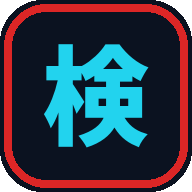
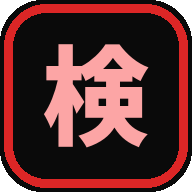
配色を黒＋赤に変更（検索くんとの取り違え防止）

diff --git a/index.html b/index.html
@@ -9,15 +9,17 @@
 <link rel="apple-touch-icon" href="./icon-180.png">
 <!-- ホーム画面から開いたときに、ブラウザの検索窓を出さないための設定 -->
 <link rel="manifest" href="./manifest.webmanifest">
-<meta name="theme-color" content="#0b1220">
+<meta name="theme-color" content="#0a0a0a">
 <meta name="mobile-web-app-capable" content="yes">
 <meta name="apple-mobile-web-app-capable" content="yes">
 <meta name="apple-mobile-web-app-status-bar-style" content="black-translucent">
 <meta name="apple-mobile-web-app-title" content="検">
 <style>
 :root{
-  --bg:#0b1220; --card:#131c2e; --card2:#1a2437; --line:#2a3a52;
-  --text:#e6eefc; --dim:#8fa3c0; --cyan:#22d3ee;
+  /* 管理用ページなので、検索くん（濃紺＋水色）とはっきり違う色にする。
+     開いた瞬間に「いま何を触っているか」が分かるほうが、誤送信を防げる。 */
+  --bg:#0a0a0a; --card:#161616; --card2:#1f1f1f; --line:#3a3a3a;
+  --text:#f2f2f2; --dim:#9a9a9a; --cyan:#f87171;   /* 差し色は赤系 */
 }
 *{box-sizing:border-box}
 body{
@@ -43,7 +45,7 @@ textarea{min-height:120px;resize:vertical}
   background:var(--card2);border:2px solid var(--line);border-radius:10px;
   font-weight:700;cursor:pointer;user-select:none;
 }
-.app.on{border-color:var(--cyan);background:rgba(34,211,238,.12)}
+.app.on{border-color:#f87171;background:rgba(248,113,113,.14)}
 .app .mk{font-size:18px;width:20px;text-align:center}
 .allbtn{
   width:100%;padding:10px;margin-top:10px;background:var(--card2);
@@ -53,20 +55,20 @@ button.main{
   width:100%;padding:18px;font-size:17px;font-weight:800;color:#fff;
   border:none;border-radius:12px;margin-bottom:10px;cursor:pointer;
 }
-.check{background:linear-gradient(90deg,#0ea5e9,#8b5cf6)}
+.check{background:#3f3f46}
 .send{background:#dc2626}
 /* カギを消す操作は、めったに使わないうえ押すと送れなくなる。
    誤って触らないよう、小さな文字リンクにして下のほうへ置く。 */
 .danger-link{
   display:block;width:100%;margin-top:22px;padding:8px;
-  background:none;border:none;color:#5b6b83;
+  background:none;border:none;color:#6b6b6b;
   font-size:11px;text-decoration:underline;cursor:pointer;
 }
 button:disabled{opacity:.45}
 #log{
   white-space:pre-wrap;font-size:13px;line-height:1.8;
-  color:#cfe3ff;                      /* 灰色だと読みにくいので明るくする */
-  background:#0a0f1a;border:1px solid var(--line);border-radius:10px;
+  color:#e8e8e8;                      /* 灰色だと読みにくいので明るくする */
+  background:#000;border:1px solid var(--line);border-radius:10px;
   padding:14px;min-height:80px;
 }
 .warn{
@@ -78,17 +80,17 @@ button:disabled{opacity:.45}
 .quick{display:flex;flex-wrap:wrap;gap:8px;margin-top:8px}
 .quick button{
   padding:9px 13px;font-size:13px;font-weight:700;
-  color:#a5e9f7;                      /* 暗すぎて読めなかったので明るい水色に */
-  background:#17293d;border:1px solid #2f4a68;border-radius:20px;cursor:pointer;
+  color:#fca5a5;                      /* 背景が黒なので、明るい赤系にする */
+  background:#2a1a1a;border:1px solid #5a3030;border-radius:20px;cursor:pointer;
 }
-.quick button:active{background:#22405e;color:#fff}
+.quick button:active{background:#3d2222;color:#fff}
 /* お知らせバナーの編集欄 */
 .news-item{
   display:flex;align-items:center;gap:10px;padding:10px;margin-bottom:8px;
   background:var(--card2);border:1px solid var(--line);border-radius:10px;
 }
-.news-item img{width:52px;height:52px;object-fit:cover;border-radius:6px;background:#0a0f1a;flex-shrink:0}
-.news-item .txt{flex:1;min-width:0;font-size:13px;color:#cfe3ff;word-break:break-all}
+.news-item img{width:52px;height:52px;object-fit:cover;border-radius:6px;background:#000;flex-shrink:0}
+.news-item .txt{flex:1;min-width:0;font-size:13px;color:#e8e8e8;word-break:break-all}
 .news-item .del{
   padding:8px 12px;background:#7f1d1d;color:#fff;border:none;border-radius:8px;
   font-size:13px;font-weight:700;flex-shrink:0;
@@ -97,11 +99,11 @@ button:disabled{opacity:.45}
   padding:14px;text-align:center;font-size:14px;color:var(--dim);
   background:var(--card2);border:1px dashed var(--line);border-radius:10px;
 }
-.banner{background:linear-gradient(90deg,#c026d3,#ec4899)}
+.banner{background:#7f1d4d}
 .clear{background:#475569}
 /* カードの中の見出し。何をする欄なのか一目で分かるようにする */
 .section-head{
-  font-size:16px;font-weight:800;color:#e6eefc;
+  font-size:16px;font-weight:800;color:#fca5a5;
   padding-bottom:10px;margin-bottom:14px;
   border-bottom:1px solid var(--line);
 }
